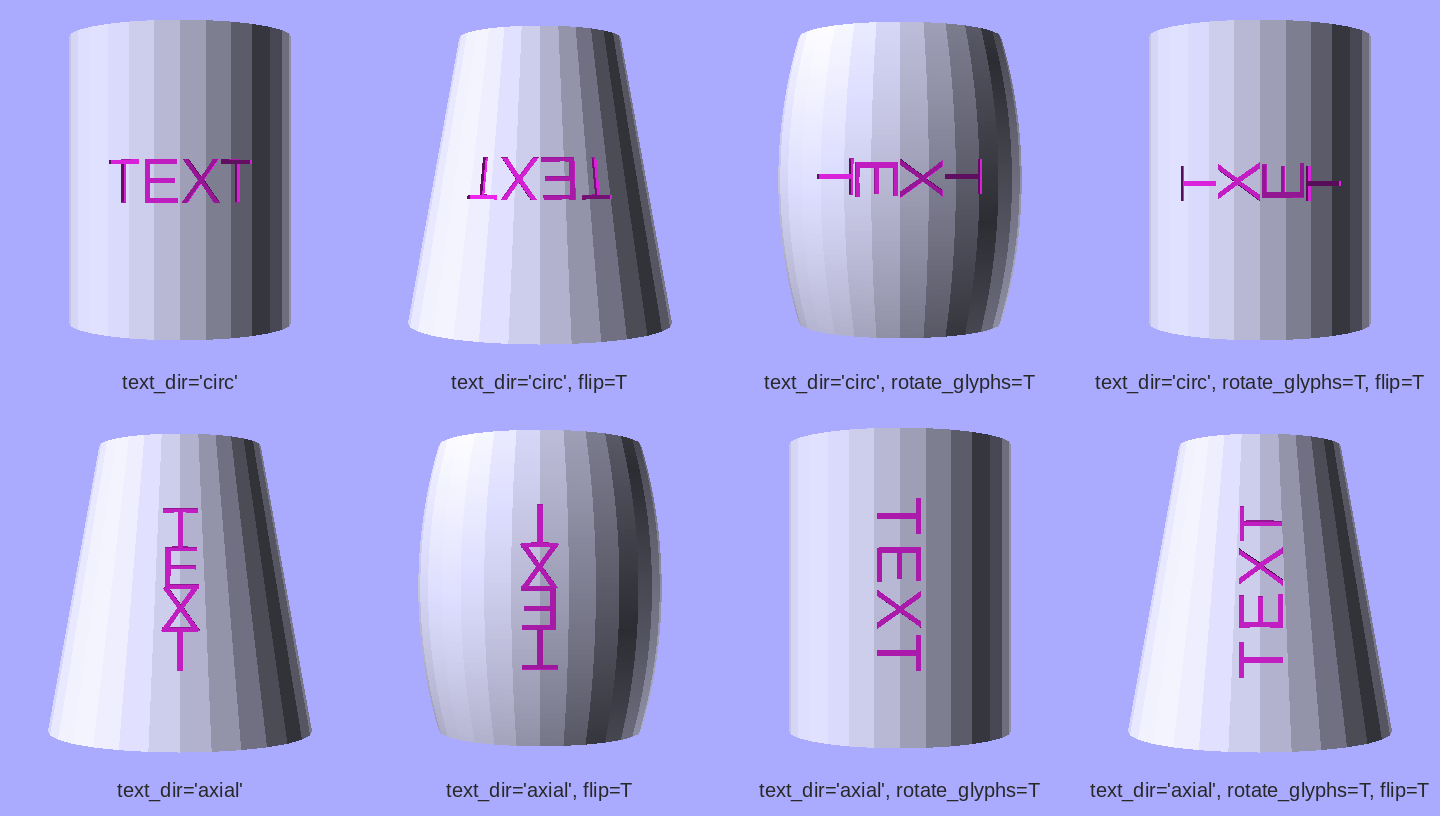
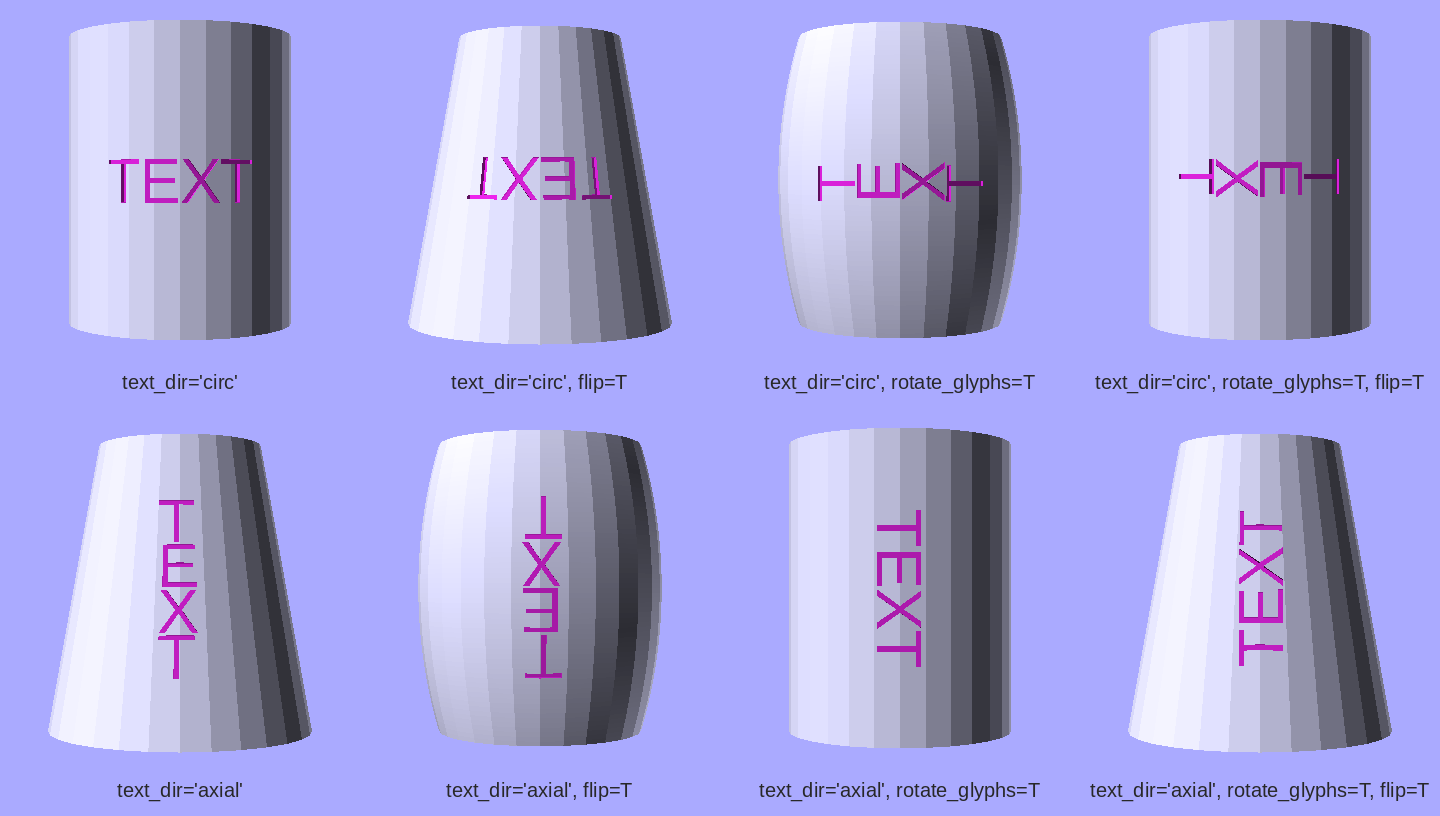
add_text: 180° rotation for circ+rg, font_size slot when height-along-line
Two more orientation-grid issues:

1. Cells 5/6 (axial + rg=False) had letters overlapping axially —
   proportional advances are shorter than font_size for typical Latin
   glyphs, but the glyph's font_size dimension lies along the line in
   axial+rg=False (and likewise in circ+rg=True). Generalize the
   uniform-slot rule from "rotate_glyphs=True" to "the height dimension
   lies along the line": ``(text_dir == 'axial') XOR rotate_glyphs``.
   Axial+rg=False now uses uniform font_size slots; axial+rg=True still
   uses proportional advances (advance is along the line); circ+rg=False
   keeps proportional; circ+rg=True uses font_size slots.

2. Cells 3/4 (circ + rg=True) had the letter orientation 180° from the
   natural curved-label convention. The orientation that reads cleanly
   for axial+rg=True (wine-bottle: line top-to-bottom, letter tops to
   the right) puts letter tops in the WRAP direction on a circumferential
   line, which is backwards. Add an extra 180° rotation for circ+rg=True
   so ``flip`` only reverses the wrap direction, not the letter
   orientation. Axial+rg cells are unchanged.

Updates the affected orientation/spacing tests and regenerates the
curved goldens (positions shifted from the heuristic-mode font_size
slot kicking in for axial+rg=False).

diff --git a/tests/test_add_text_metrics.py b/tests/test_add_text_metrics.py
@@ -430,10 +430,12 @@ class TestCumulativeOffsetMath:
         assert positions[2] == pytest.approx((x_c, y_c, 10.0), abs=0.005)
 
     def test_axial_three_chars_centered_on_mid_wall(self):
-        # text_dir="axial" → glyphs stack along z, all at the same theta.
-        # Heuristic axial step = 0.6 * 4 = 2.4mm. Centers at [-2.4, 0, +2.4]
-        # (in axial mm); sign = -1.0 for default flip=False (top-to-bottom).
-        # So char 0 sits at z = 2.4 + axis_origin.z (top), char 2 at z = -2.4 + ...
+        # text_dir="axial" + rotate_glyphs=False: the glyph's font_size
+        # dimension lies along the line direction (axis), so the line slot
+        # is font_size (4mm) — uniform spacing, NOT proportional advance —
+        # otherwise letters would overlap in the axial direction.
+        # Centers at [-4, 0, +4] in axial mm; sign=-1.0 (default top-to-bottom),
+        # so char 0 sits at z = 4 + 10 = 14 (top), char 2 at z = -4 + 10 = 6.
         scad = _emit(
             cylinder(h=20, r=10).add_text(
                 label="ABC", relief=0.4, on="outer_wall", font_size=4,
@@ -446,27 +448,30 @@ class TestCumulativeOffsetMath:
         for p in positions:
             assert p[0] == pytest.approx(9.99, abs=0.005), p
             assert p[1] == pytest.approx(0.0, abs=0.005), p
-        # z ordering: char 0 at top (z=12.4), char 1 at z=10, char 2 at z=7.6.
+        # z ordering: char 0 at top (z=14), char 1 at z=10, char 2 at z=6.
         zs = sorted(p[2] for p in positions)
-        assert zs == pytest.approx([7.6, 10.0, 12.4], abs=0.005)
+        assert zs == pytest.approx([6.0, 10.0, 14.0], abs=0.005)
 
 
 @pytest.mark.freetype
 class TestAxialModeUsesProportionalAdvances:
-    """text_dir="axial" with real font metrics: per-glyph axial spacing is
-    proportional, not uniform."""
+    """text_dir="axial" + rotate_glyphs=True (wine-bottle): the glyph's
+    advance dimension maps along the line direction, so proportional per-
+    glyph advances drive spacing. (Without rotate_glyphs, the glyph's
+    font_size dimension is along the line, and the slot is uniform
+    font_size to prevent letters from overlapping axially.)"""
 
-    def test_iWi_axial_offsets_reflect_real_advances(self, bundled_font_path):
-        # "iWi" on a cylinder with axial layout. Liberation Sans 2.00.1
-        # advances at size=4 with default calibration: i ≈ 1.21mm, W ≈ 5.13mm
-        # (matches OpenSCAD's flat text() rendering). Centers (halign=center)
-        # are [-(W/2 + i/2), 0, +(W/2 + i/2)] = [-3.17, 0, +3.17] in axial
-        # mm, times sign=-1 → z offsets [+3.17, 0, -3.17] from line centre
-        # (z=10). Step between adjacent glyphs is (i + W) / 2 ≈ 3.17mm.
+    def test_iWi_wine_bottle_offsets_reflect_real_advances(self, bundled_font_path):
+        # "iWi" wine-bottle on a cylinder. Liberation Sans at size=4 with
+        # default calibration: i ≈ 1.21mm, W ≈ 5.13mm (matches OpenSCAD's
+        # flat text() rendering). Centers (halign=center) are
+        # [-(W/2 + i/2), 0, +(W/2 + i/2)] = [-3.17, 0, +3.17] in axial mm,
+        # times sign=+1 (wine-bottle reads bottom-up by convention) — step
+        # between adjacent glyphs is (i + W) / 2 ≈ 3.17mm.
         scad = _emit(
             cylinder(h=20, r=10).add_text(
                 label="iWi", relief=0.4, on="outer_wall", font_size=4,
-                text_dir="axial", font=bundled_font_path,
+                text_dir="axial", rotate_glyphs=True, font=bundled_font_path,
             )
         )
         positions = _glyph_translates_3d(scad)
@@ -491,14 +496,15 @@ class TestConicalAxialCumulativeRadius:
     def test_cone_axial_per_glyph_radius_tracks_cumulative_at_z(self, bundled_font_path):
         # Tapered cylinder: r1=10 at bottom, r2=4 at top, h=20. r_mid=7,
         # slope = (4-10)/20 = -0.3. So local radius at at_z is 7 + at_z*-0.3.
-        # With "iWi" axial centered (default calibration matches OpenSCAD),
-        # char positions at_z = +3.167, 0, -3.167 (sign=-1 default flip=False;
-        # char 0 at top, char 2 at bottom). Local radius: top = 7 - 0.95 = 6.05;
-        # mid = 7; bottom = 7.95. Each glyph's translate.x ≈ local_radius - eps.
+        # Wine-bottle "iWi" (rotate_glyphs=True) lets advance drive axial
+        # spacing — with default calibration matching OpenSCAD, char
+        # positions at_z = +3.167, 0, -3.167 (char 0 at top, char 2 at
+        # bottom). Local radius: top = 7 - 0.95 = 6.05; mid = 7; bottom =
+        # 7.95. Each glyph's translate.x ≈ local_radius - eps.
         scad = _emit(
             cylinder(h=20, r1=10, r2=4).add_text(
                 label="iWi", relief=0.4, on="outer_wall", font_size=4,
-                text_dir="axial", font=bundled_font_path,
+                text_dir="axial", rotate_glyphs=True, font=bundled_font_path,
             )
         )
         positions = _glyph_translates_3d(scad)

diff --git a/src/scadwright/_custom_transforms/add_text.py b/src/scadwright/_custom_transforms/add_text.py
@@ -795,13 +795,21 @@ def _emit_wrap_line(
     matters most for short labels where evaluating at the left edge
     leaves the whole glyph noticeably rotated.
     """
-    if rotate_glyphs:
-        # Rotated glyphs occupy ``font_size`` of arc along the line
-        # direction (the glyph's height maps to the line tangent under the
-        # 90° rotation), so proportional per-glyph advances would let
-        # adjacent letters overlap. Use uniform ``font_size`` slots — the
-        # canonical wine-bottle / vertical layout. ``spacing`` multiplies
-        # the slot the same way it scales proportional advances elsewhere.
+    # The glyph's ``font_size`` (height) dimension lies along the LINE
+    # direction whenever ``(text_dir == "axial") XOR rotate_glyphs``:
+    #
+    #   - axial + rg=F: glyph's +Y → axis (line is axial) → height along line
+    #   - axial + rg=T: glyph's +Y → tangent (perp to axial line) → advance along line
+    #   - circ + rg=F:  glyph's +Y → axis (perp to tangent line) → advance along line
+    #   - circ + rg=T:  glyph's +Y → tangent (line is tangent) → height along line
+    #
+    # In the "height along line" cases the line slot must be ``font_size``
+    # (the canonical wine-bottle / vertical layout) — proportional advances
+    # are smaller than font_size for typical Latin glyphs and would let
+    # adjacent letters overlap in line direction. In the "advance along
+    # line" cases, proportional advances give the natural Latin layout.
+    height_along_line = (text_dir == "axial") != rotate_glyphs
+    if height_along_line:
         slot = font_size * text_kwargs.get("spacing", 1.0)
         advances_mm = [slot] * len(line)
     else:
@@ -947,15 +955,29 @@ def _emit_wrap_line(
 
         # 8-combo orientation: (rotate_glyphs, flip) → (g_right, g_up).
         # g_right gets glyph local +X; g_up gets glyph local +Y.
-        if not rotate_glyphs and not flip:
+        #
+        # For circumferential + rg=True, an extra 180° rotation in the
+        # tangent plane is applied to both flip variants (i.e., no-flip
+        # and flip use what would otherwise be each other's orientation
+        # matrix). The orientation that reads naturally for axial+rg=T
+        # (wine-bottle, line runs top-to-bottom, letter tops to the right)
+        # would put letter tops in the WRAP direction on a circumferential
+        # line — which reads backwards relative to typical curved-label
+        # conventions where letter tops point AGAINST the wrap. The 180°
+        # rotation here means: in circumferential mode, ``flip`` only
+        # reverses the wrap direction (via ``sign`` on the offsets), it
+        # doesn't co-rotate the glyphs.
+        rg_swap = rotate_glyphs and text_dir == "circumferential"
+        eff_flip = (not flip) if rg_swap else flip
+        if not rotate_glyphs and not eff_flip:
             g_right, g_up = e1, e2
-        elif not rotate_glyphs and flip:
+        elif not rotate_glyphs and eff_flip:
             g_right = (-e1[0], -e1[1], -e1[2])
             g_up = (-e2[0], -e2[1], -e2[2])
-        elif rotate_glyphs and not flip:
+        elif rotate_glyphs and not eff_flip:
             g_right = (-e2[0], -e2[1], -e2[2])
             g_up = e1
-        else:  # rotate_glyphs and flip
+        else:  # rotate_glyphs and eff_flip
             g_right = e2
             g_up = (-e1[0], -e1[1], -e1[2])
 

diff --git a/tests/test_add_text_orientation.py b/tests/test_add_text_orientation.py
@@ -118,21 +118,28 @@ def test_circumferential_flip():
 
 def test_circumferential_rotate_glyphs():
     """text_dir=circumferential, rg=True, flip=False.
-    g_right = -axis, g_up = +tangent. Letters lying on backs."""
+
+    On a circumferential line, rotate_glyphs gets an extra 180° rotation
+    compared to the axial+rg case so that ``flip`` reverses only the wrap
+    direction (not the letter orientation). Result: g_right = +axis,
+    g_up = -tangent. Letters lying on their backs with tops pointing
+    against the wrap direction (the natural curved-label convention)."""
     hub = cylinder(**HUB_KW)
     g_right, g_up, out = _orient_columns(hub, rotate_glyphs=True)
-    assert g_right == pytest.approx((0.0, 0.0, -1.0), abs=1e-9)
-    assert g_up == pytest.approx((0.0, 1.0, 0.0), abs=1e-9)
+    assert g_right == pytest.approx((0.0, 0.0, 1.0), abs=1e-9)
+    assert g_up == pytest.approx((0.0, -1.0, 0.0), abs=1e-9)
     assert out == pytest.approx((1.0, 0.0, 0.0), abs=1e-9)
 
 
 def test_circumferential_rotate_glyphs_flip():
     """text_dir=circumferential, rg=True, flip=True.
-    g_right = +axis, g_up = -tangent. Letters lying on backs (other way)."""
+
+    Same letter orientation as the no-flip variant; only the wrap direction
+    reverses. g_right = -axis, g_up = +tangent."""
     hub = cylinder(**HUB_KW)
     g_right, g_up, out = _orient_columns(hub, rotate_glyphs=True, flip=True)
-    assert g_right == pytest.approx((0.0, 0.0, 1.0), abs=1e-9)
-    assert g_up == pytest.approx((0.0, -1.0, 0.0), abs=1e-9)
+    assert g_right == pytest.approx((0.0, 0.0, -1.0), abs=1e-9)
+    assert g_up == pytest.approx((0.0, 1.0, 0.0), abs=1e-9)
     assert out == pytest.approx((1.0, 0.0, 0.0), abs=1e-9)
 
 